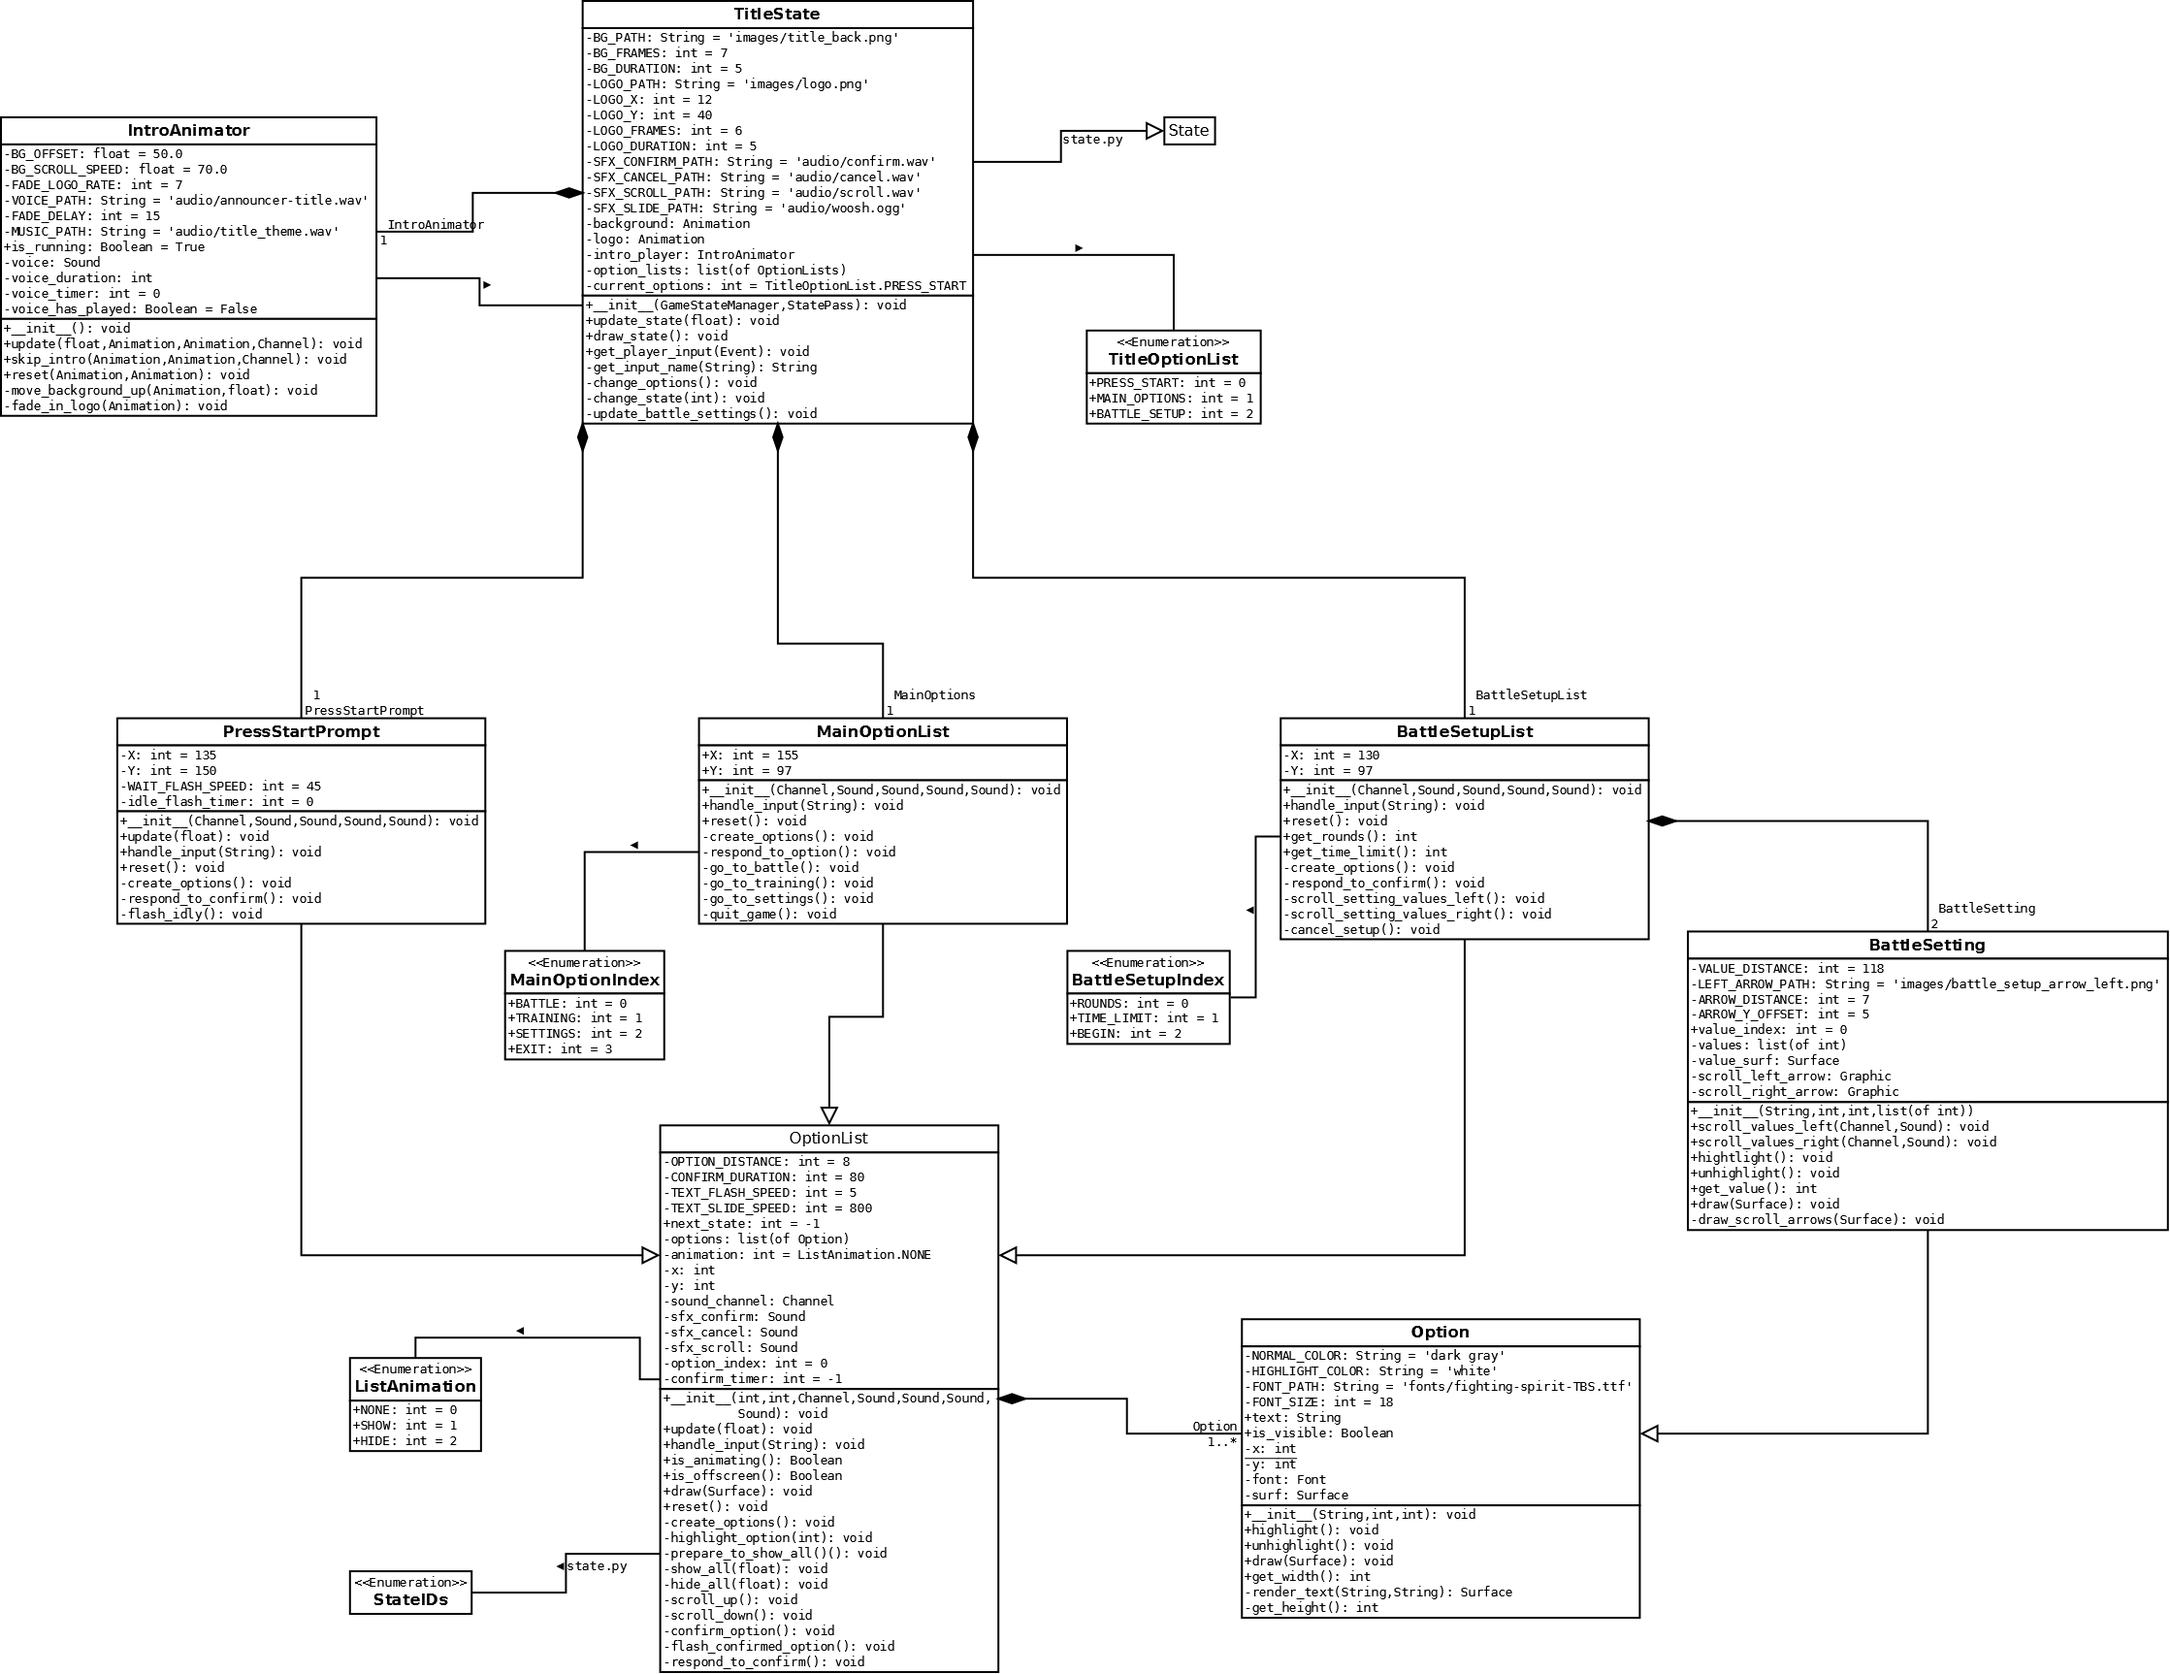
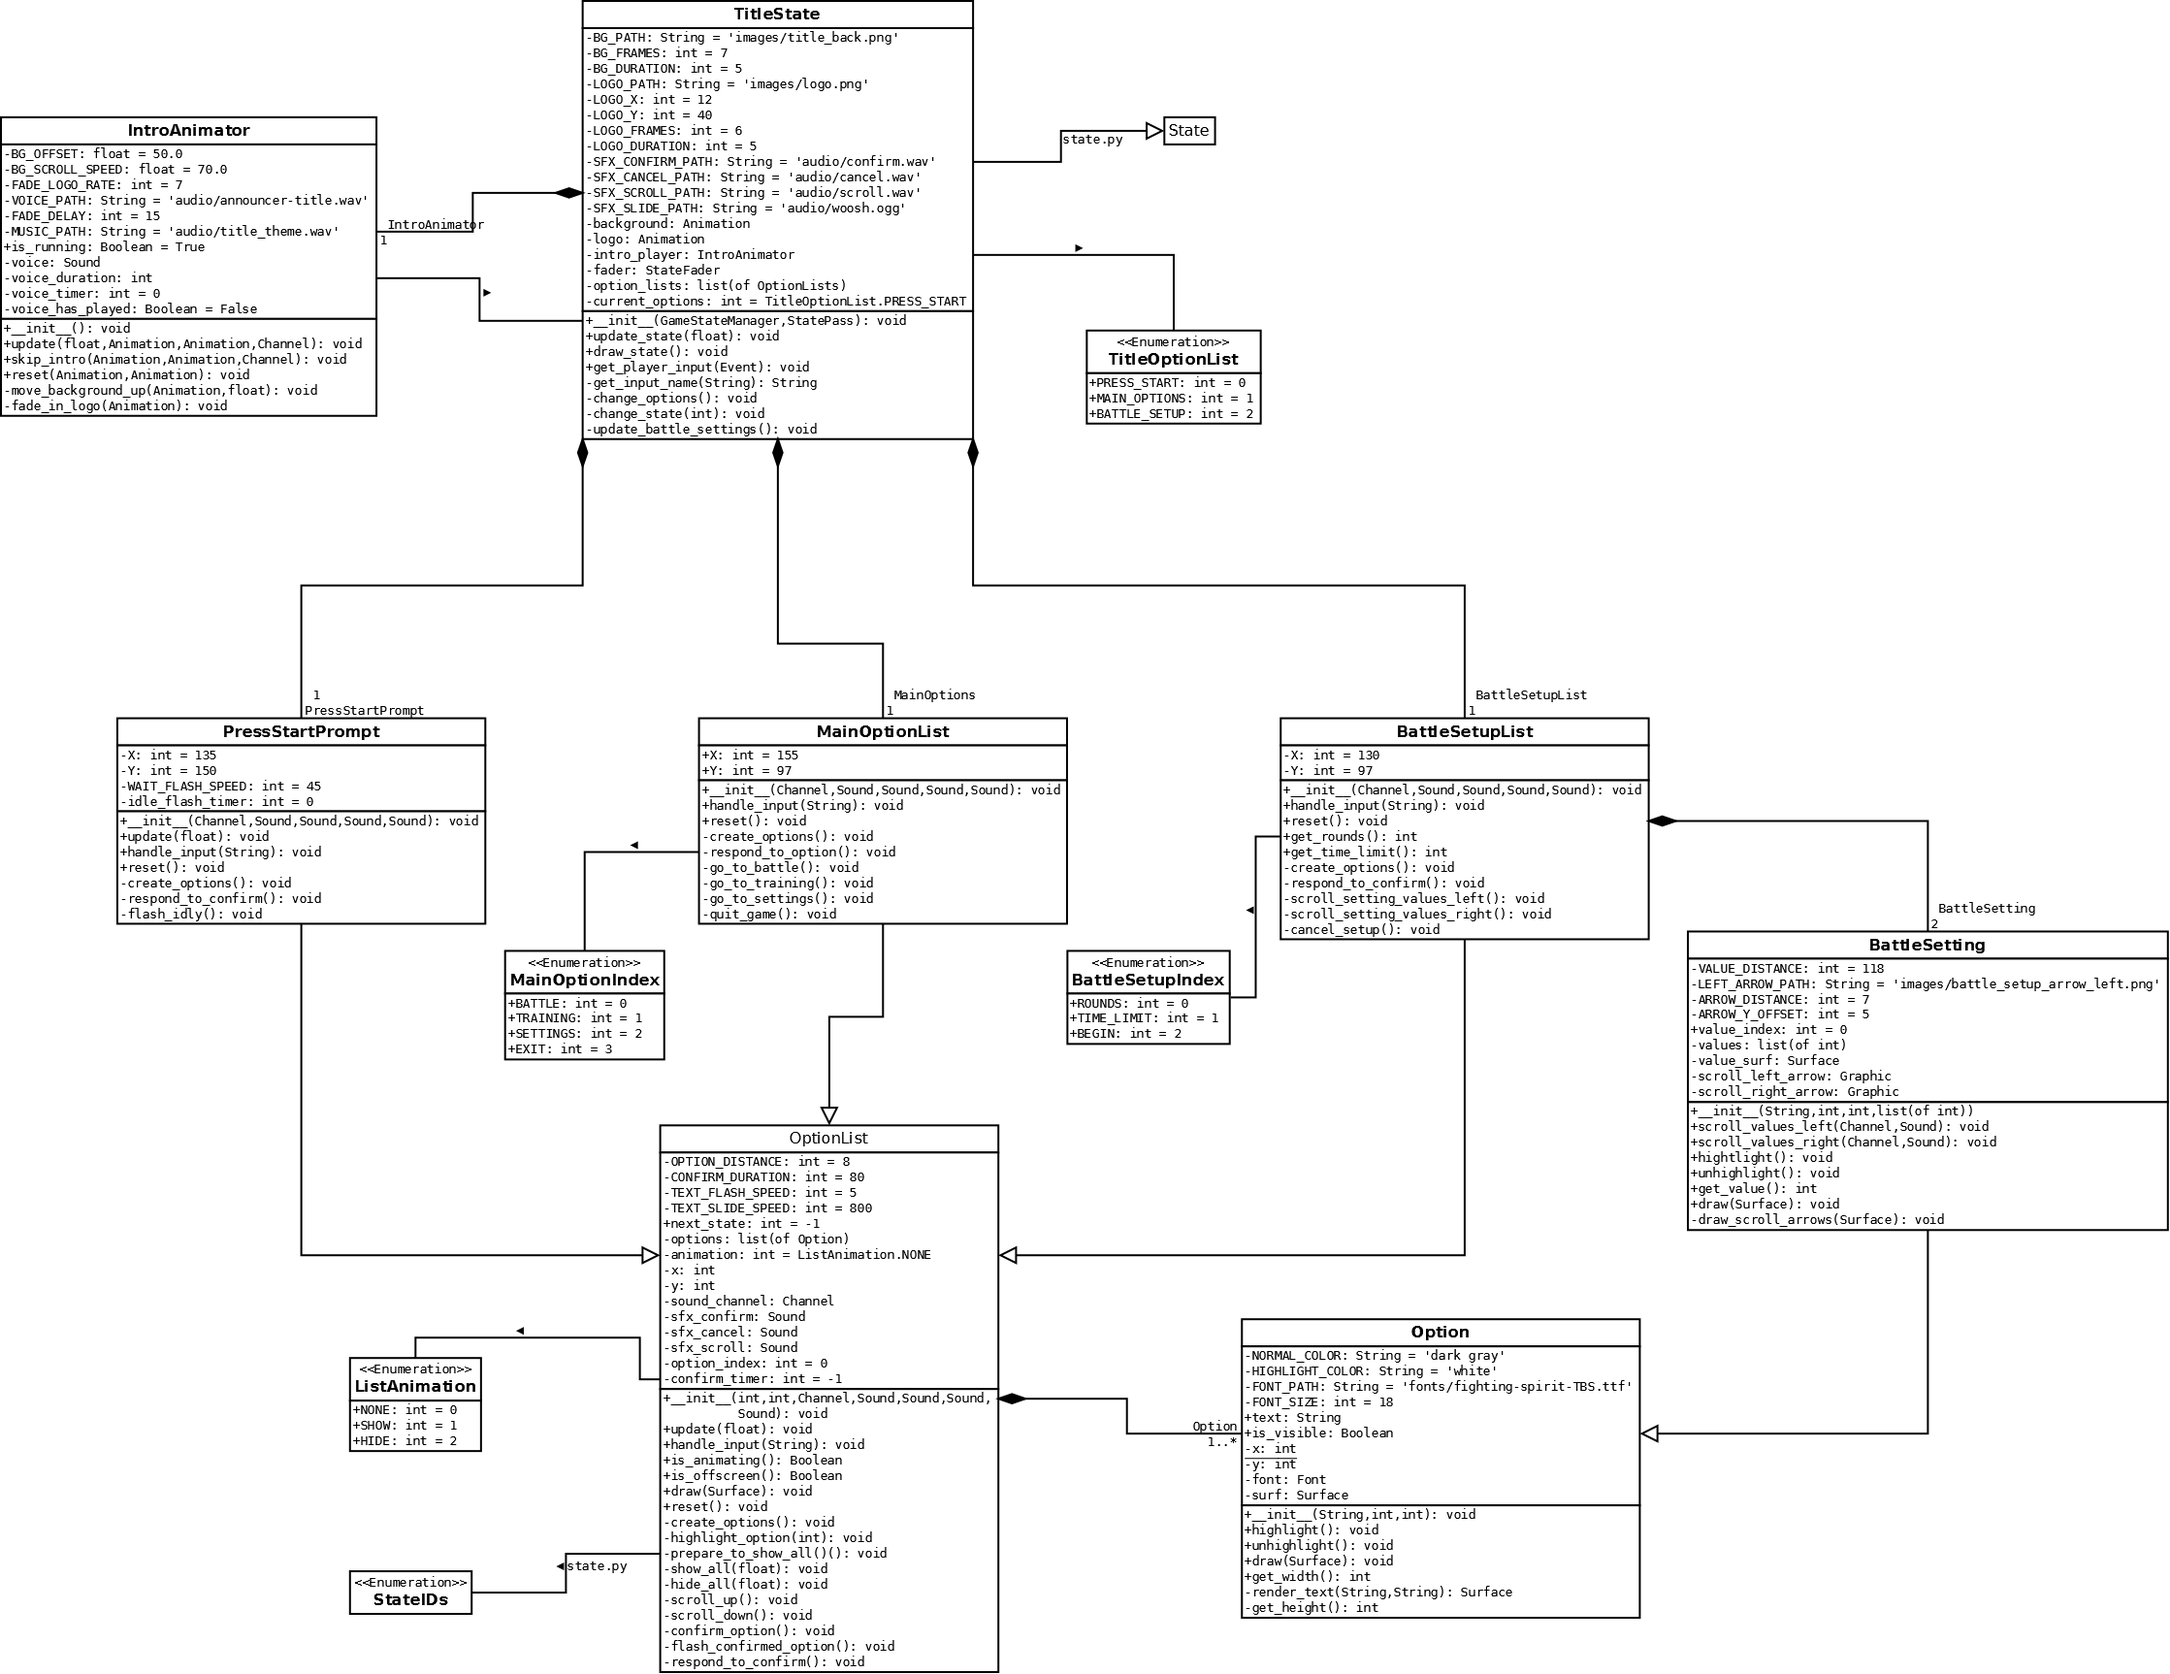
TitleState: Fade out to Character Select State

Changed region(s): [[0.2468, 0.1535, 0.4627, 0.2764], [0.4627, 0.3378, 0.6786, 0.3685], [0.1542, 0.3378, 0.2468, 0.3685]]

diff --git a/lib/game_states/title_state.py b/lib/game_states/title_state.py
@@ -11,6 +11,7 @@ from lib.graphics import Graphic
 from lib.graphics import Animation
 from lib.game_states.state import *
 from lib.game_states.state_ids import StateIDs
+from lib.game_states.state_fader import StateFader
 
 
 class TitleState(State):
@@ -58,6 +59,8 @@ class TitleState(State):
             logo: The game logo Animation.
             intro_player: An IntroAnimator that manages and performs
                 the introductory animation.
+            fader: A StateFader used for fading to black when switching to
+                the Character Select State.
             option_lists: A list containing three different OptionLists.
                 This contains one instance each of PressStartPrompt,
                 MainOptionList, and BattleSetupList.
@@ -93,6 +96,7 @@ class TitleState(State):
                               self.LOGO_FRAMES, self.LOGO_DURATION)
         self.intro_animator = IntroAnimator()
         self.intro_animator.reset(self.background, self.logo)
+        self.fader = StateFader(self.change_state)
 
         confirm = Sound(self.SFX_CONFIRM_PATH)
         cancel = Sound(self.SFX_CANCEL_PATH)
@@ -121,6 +125,8 @@ class TitleState(State):
         if self.intro_animator.is_running:
             self.intro_animator.update(time, self.background, self.logo,
                                        self.state_pass.announcer_channel)
+        elif self.fader.is_running:
+            self.fader.update(time, self.state_surface)
         else:
             updated_options = self.option_lists[self.current_options]
 
@@ -204,7 +210,7 @@ class TitleState(State):
             self.push_new_state(StateIDs.SETTINGS)
         else:
             self.update_battle_settings()
-            self.change_state(state_id)
+            self.fader.start_fade_out(StateIDs.SELECT_CHARACTER)
 
     def update_battle_settings(self):
         """Set the battle parameters within the StatePass object using
